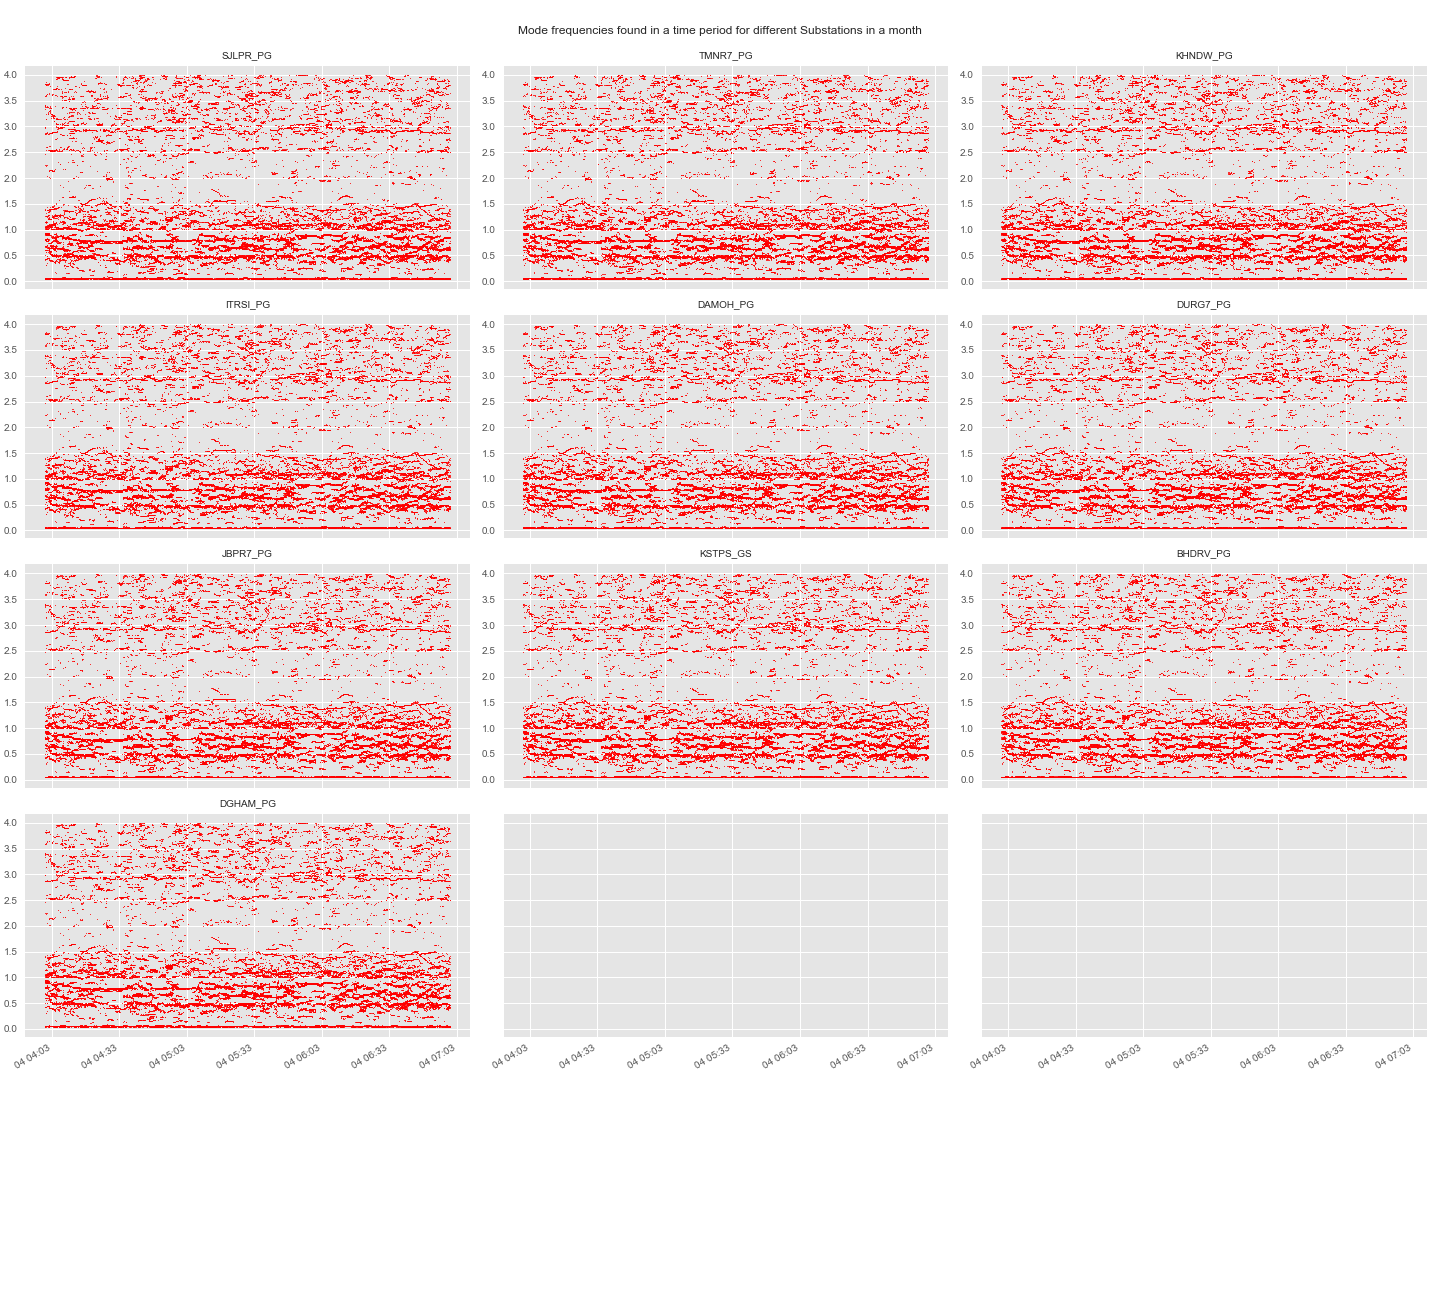
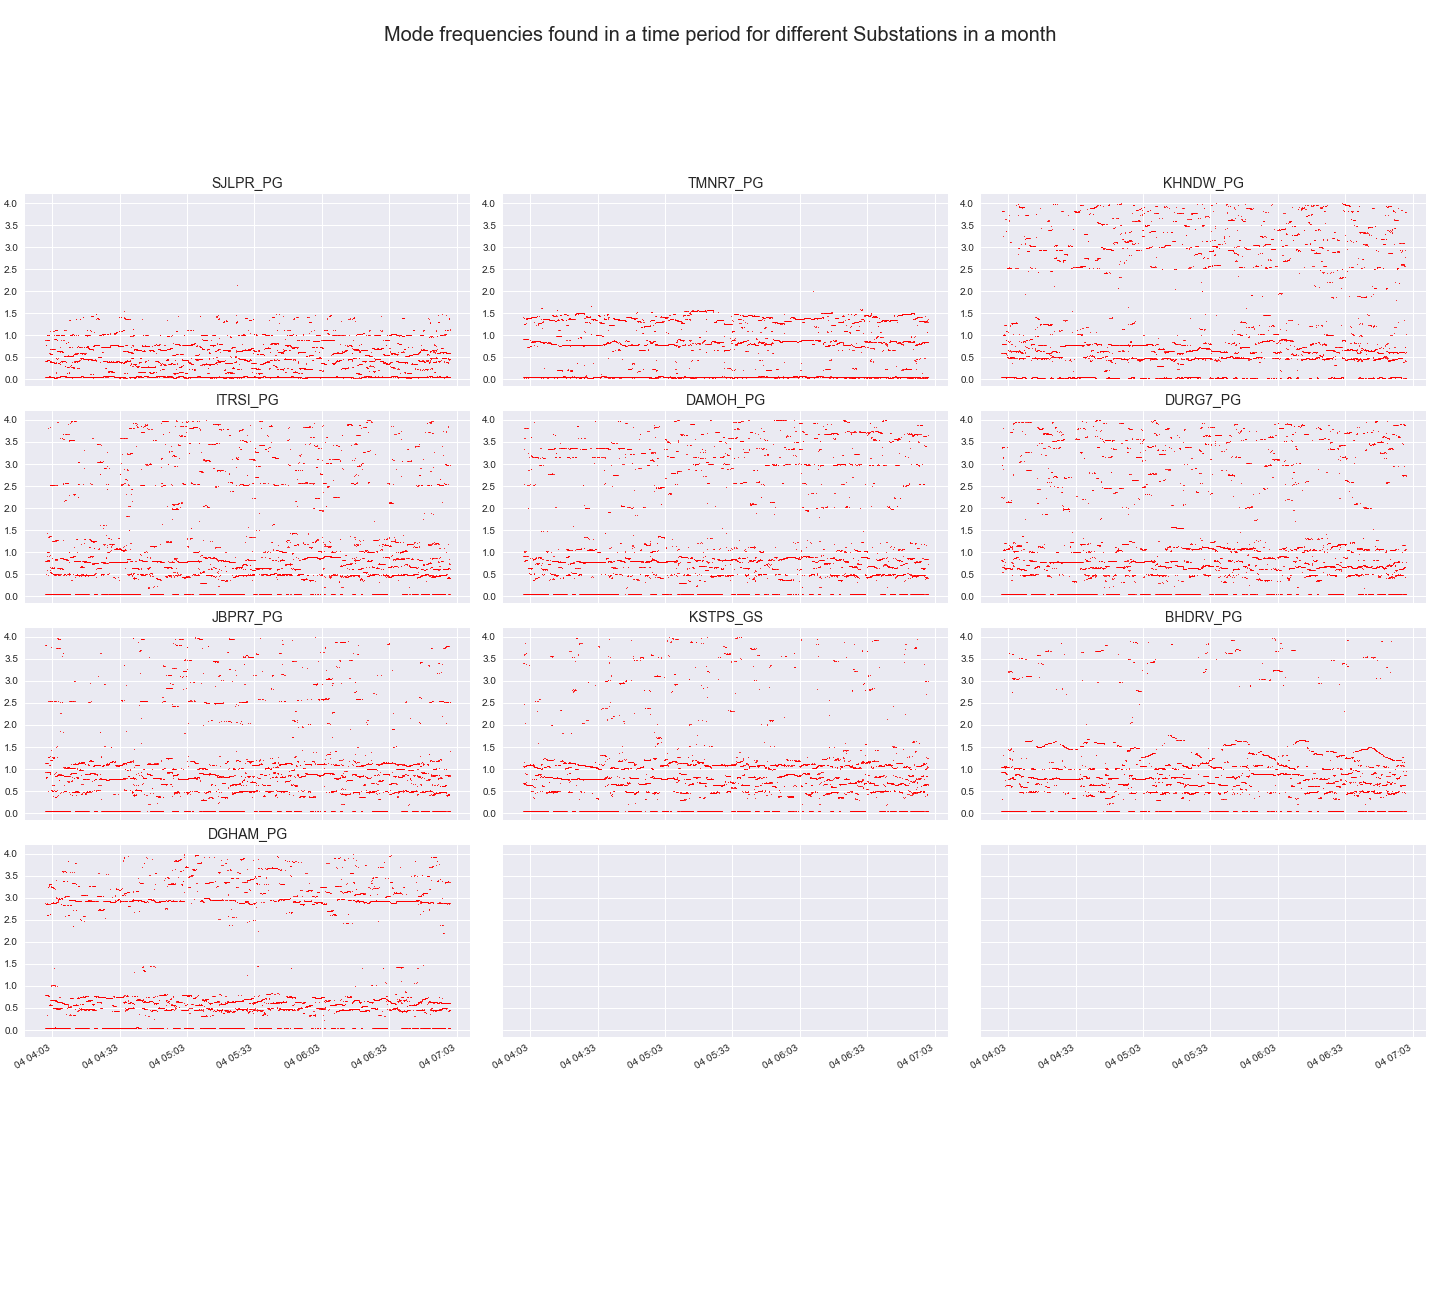
first commit

diff --git a/Substation_Mods_count_in_month.py b/Substation_Mods_count_in_month.py
@@ -57,13 +57,13 @@ fig_size[0] = 5*num_subplt_rows
 fig_size[1] = 6*num_subplt_cols
 plt.rcParams["figure.figsize"] = fig_size
 # Set Title of figure
-plt.gcf().suptitle('Mode frequencies found in a time period for different Substations in a month')
+plt.gcf().suptitle('Mode frequencies found in a time period for different Substations in a month', fontsize=20)
 
 for ss_counter, ss_name in enumerate(ss_names):
     # set the subplot title
     ax = ax_array[ss_counter]
-    ax.plot(pd.to_datetime(plottingDf['STARTDATE']), plottingDf['Frequency:PDX1'], marker=".",  markersize=2, linewidth=0,c='r')
-    ax.set_title("{}".format(ss_name), fontsize = 10)
+    ax.plot(pd.to_datetime(plottingDf[plottingDf['SubstationId']==ss_name]['STARTDATE']), plottingDf[plottingDf['SubstationId']==ss_name]['Frequency:PDX1'], marker=".",  markersize=2, linewidth=0,c='r')
+    ax.set_title("{}".format(ss_name), fontsize = 14)
     for label in ax.get_xticklabels() + ax.get_yticklabels():
         label.set_visible(True)
     # set the major and minor tick locations and formats
@@ -75,6 +75,6 @@ plt.tight_layout(w_pad = 0.2, pad = 0.35)
 # axes up to make room for them
 fig.autofmt_xdate()
 # explicitly set the top margin to accommodate the title
-fig.subplots_adjust(top=0.95)
+fig.subplots_adjust(top=0.85)
 fig.savefig('temp.png')
 
